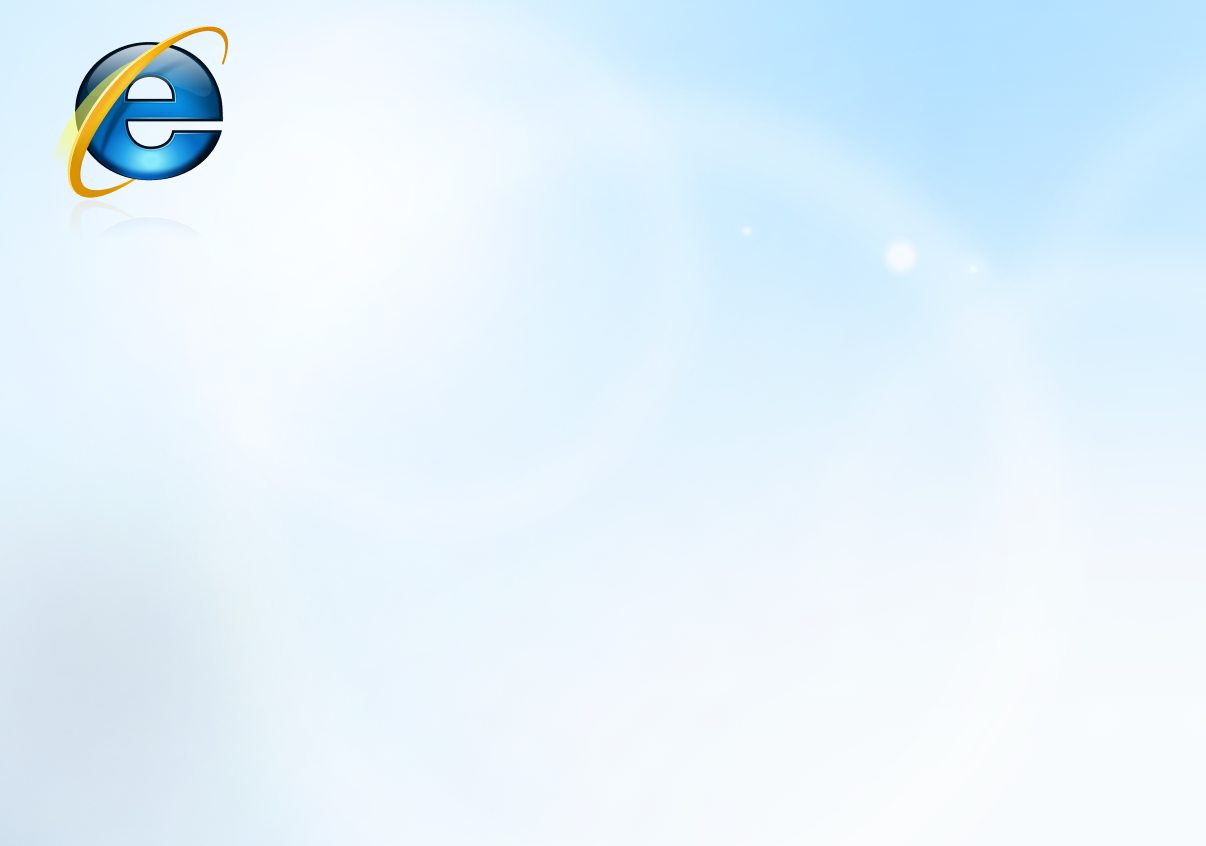
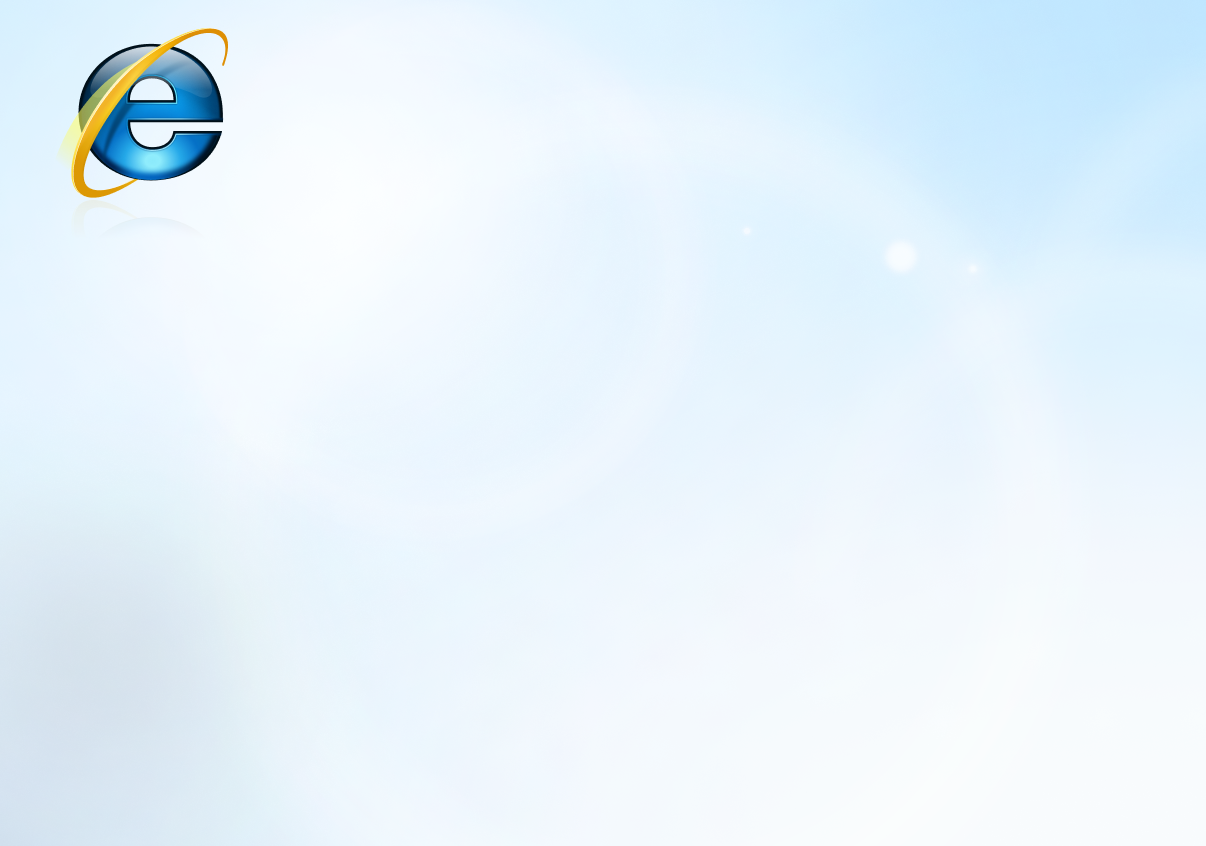
0.5.3 - adsfadsfnkdmfasdmf
- New Favorites and Add to Favorites Bar button
- Slightly tweaked RinFox Wizard Background

Changed region(s): [[0.0307, 0.0307, 0.1841, 0.2459], [0.5522, 0.0, 0.7363, 0.1537]]

diff --git a/rinfox/Profile Folder/chrome/JS/helpButton.uc.js b/rinfox/Profile Folder/chrome/JS/helpButton.uc.js
@@ -38,3 +38,57 @@ try {
 };
 
 };
+
+function createAddToBookmarks() {
+
+try {
+    var buttonText = "Add to Favorites Bar";
+
+    CustomizableUI.createWidget({
+        id: "addToBookmarksBarButton",
+        defaultArea: CustomizableUI.AREA_BOOKMARKS,
+        removable: true,
+        label: buttonText,
+        tooltiptext: buttonText,
+        onCommand: function() {
+            addToBookmarksBar();
+        },
+        onCreated: function(button) {
+            return button;
+        },
+    });
+}
+catch (e) {
+    Components.utils.reportError(e);
+};
+
+};
+
+function addToBookmarksBar() {
+    var bookmarksSvc = Cc["@mozilla.org/browser/nav-bookmarks-service;1"].getService(Ci.nsINavBookmarksService);
+    bookmarksSvc.insertBookmark(3, gBrowser.currentURI, bookmarksSvc.DEFAULT_INDEX, window.document.title);
+}
+
+function createFavoritesSidebarButton() {
+    try {
+        var buttonText = "Favorites";
+    
+        CustomizableUI.createWidget({
+            id: "bookmarksSidebarButton",
+            defaultArea: CustomizableUI.AREA_BOOKMARKS,
+            removable: true,
+            label: buttonText,
+            tooltiptext: buttonText,
+            onCommand: function() {
+                SidebarUI.toggle('viewBookmarksSidebar');
+				SidebarUI.reversePosition();
+            },
+            onCreated: function(button) {
+                return button;
+            },
+        });
+    }
+    catch (e) {
+        Components.utils.reportError(e);
+    }
+};

diff --git a/rinfox/Profile Folder/chrome/_tweaks.css b/rinfox/Profile Folder/chrome/_tweaks.css
@@ -49,15 +49,15 @@
   #history-panelmenu > .toolbarbutton-icon {
     background-image: url('images/history-ie8.png') !important;
   }
-  #library-button {
+  #bookmarksSidebarButton {
     padding-inline: 7px 11px !important;
     gap: 5px !important;
   }
-  #TabsToolbar #library-button {
+  #TabsToolbar #bookmarksSidebarButton {
     margin-left: -5px !important;
     margin-right: 10px !important;  
   }
-  #library-button > .toolbarbutton-text {
+  #bookmarksSidebarButton > .toolbarbutton-text {
     background-color: transparent !important;
     padding: 0 !important;
     border-radius: 0 !important;
@@ -65,7 +65,7 @@
     align-items: center !important;
     margin-bottom: 2px !important;
   }
-  #bookmarks-menu-button {
+  #addToBookmarksBarButton {
     list-style-image: url('images/add-favorite-ie8.png') !important;
   }
 }

diff --git a/rinfox/Profile Folder/chrome/_main.css b/rinfox/Profile Folder/chrome/_main.css
@@ -28,11 +28,11 @@
   list-style-image: url('images/help.png') !important;
 }
 
-#library-button {
+#bookmarksSidebarButton {
   list-style-image: url('images/favorites.png') !important;
 }
 
-#bookmarks-menu-button {
+#addToBookmarksBarButton {
   list-style-image: url('images/add-favorite.png') !important;
 }
 

diff --git a/rinfox/Profile Folder/chrome/JS/scriptsLoader.uc.js b/rinfox/Profile Folder/chrome/JS/scriptsLoader.uc.js
@@ -17,6 +17,8 @@ function executeFunctions() {
 	changeUnifiedExtensionsText();
 	changeSearchBarPlaceholder();
 	createHelpButton();
+	createFavoritesSidebarButton();
+	createAddToBookmarks();
 	disableHistoryButton();
 	convertCheckboxesToNativeLook()
 	openRinFoxWizardWindow(true);
